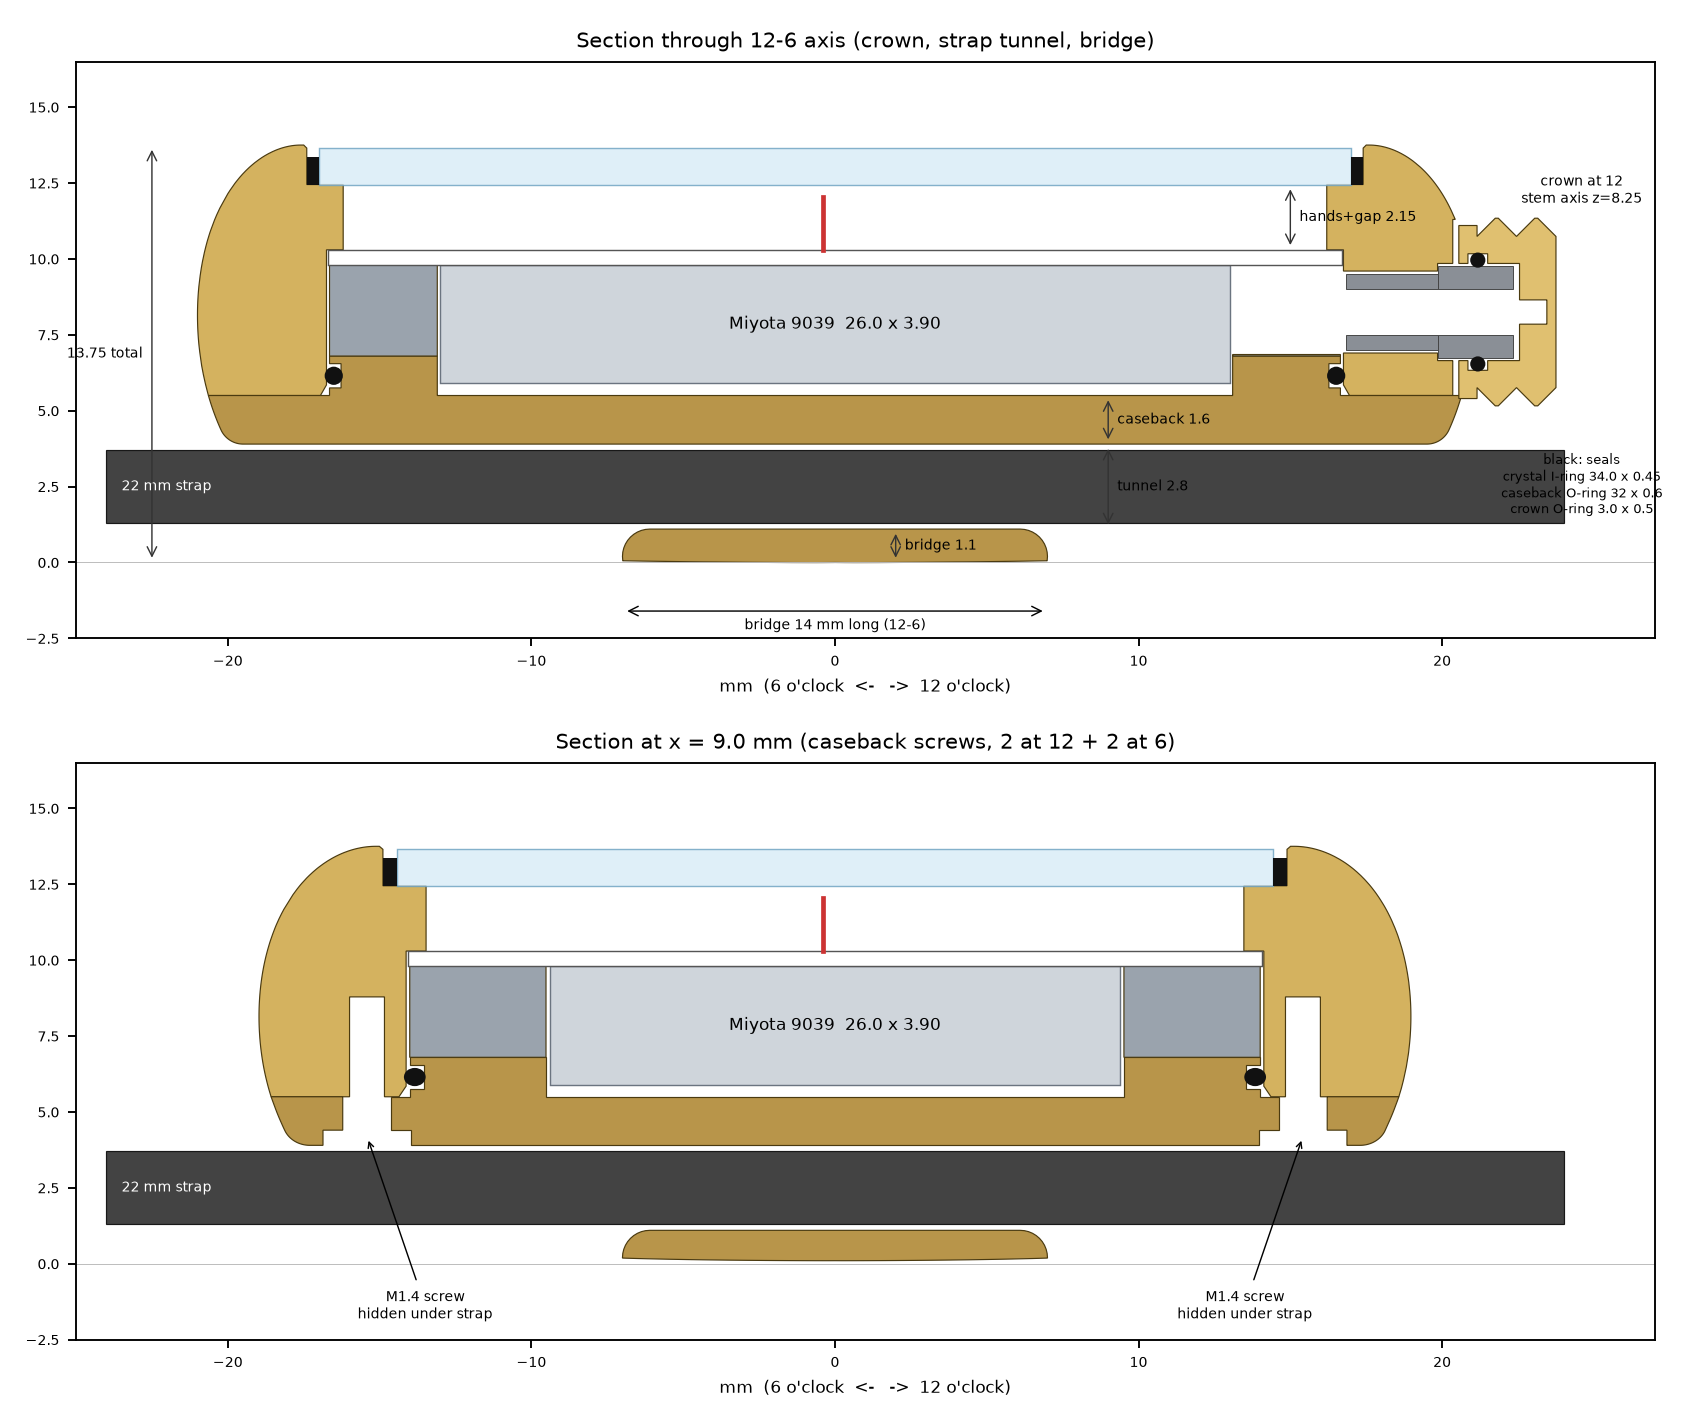
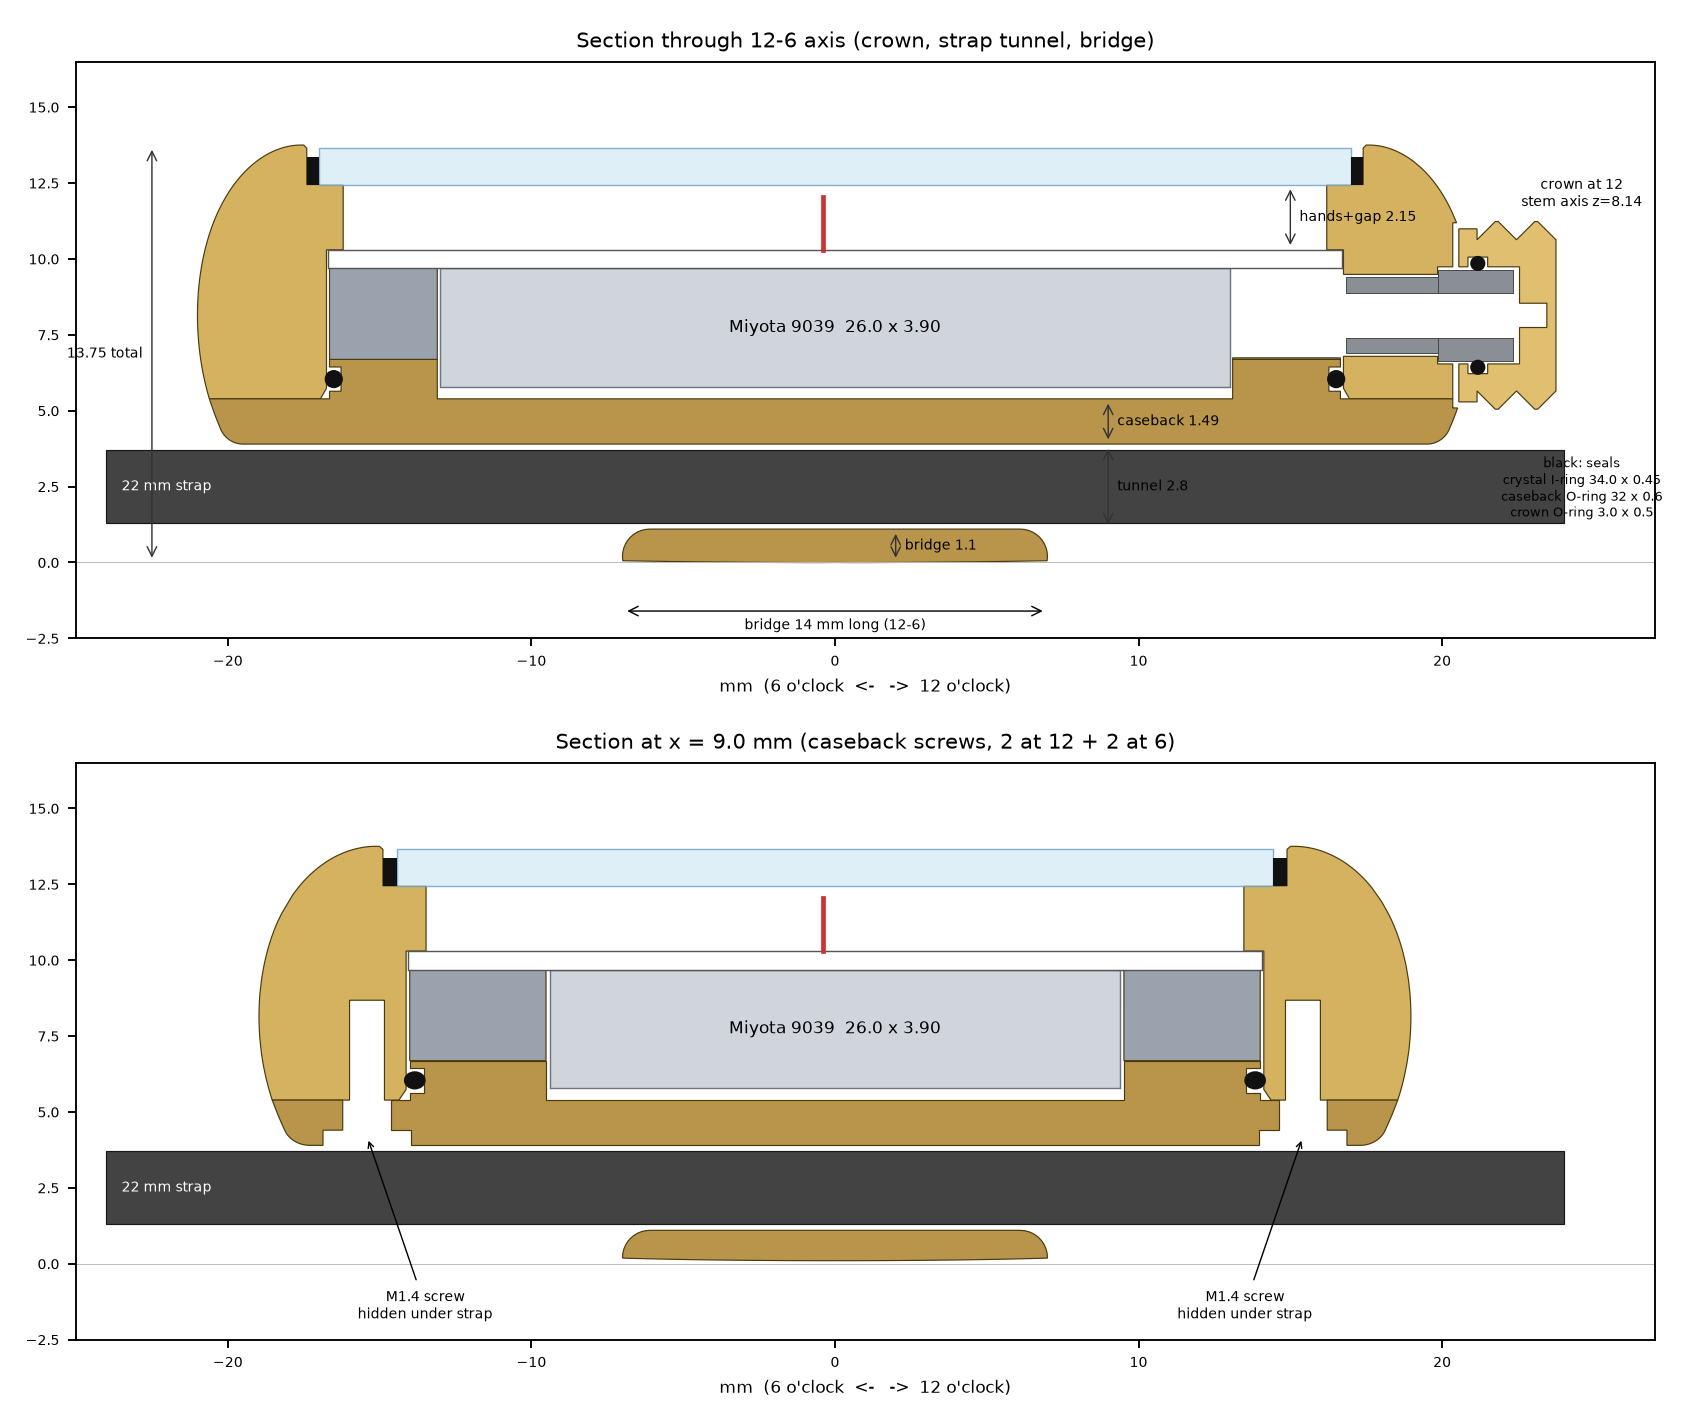
Fit V9 to the 0.61 mm steel dial without making the case taller
The dial is now the 0.024" (0.61 mm) UV-printed stainless dial instead of 0.50 mm brass.
To keep the watch at 13.75 mm and keep Miyota's 0.40 mm rotor clearance, the caseback
plate is thinned by the same 0.11 mm (1.60 -> 1.49), so everything above it drops 0.11.

- One movement ring (3.00 mm) works with this dial; no spacer variants
- 0.99 mm of plate under each M1.4 screw head; thread engagement in the body is 3.0 mm
- Crown axis now at z 8.14
- The crown counterbore at 12 is carried through the caseback, so the crown collar
  clears it (it grazed the caseback by 0.004 mm3)
- check_fits.py now also checks the crown against the body and caseback
- A 0.50 mm dial would need a 0.10 mm shim under it

diff --git a/watch-case/README.md b/watch-case/README.md
@@ -21,9 +21,9 @@ A prototype 42 mm lugless watch case with the crown at 12, and a 22 mm strap tha
 | File | What it is |
 |---|---|
 | `…_case_body.stl` | Upper shell: bezel, I-ring crystal seat, rehaut, movement bore with an O-ring lead-in, crown-tube hole and shoulder pocket at 12, 4 pilot holes for M1.4 screws |
-| `…_caseback_bridge.stl` | Lower shell: 1.6 mm caseback plate, spigot with an O-ring groove, strap tunnel from 12 to 6, 14 mm bridge, 4 flush seats for M1.4 wafer-head screws |
+| `…_caseback_bridge.stl` | Lower shell: 1.49 mm caseback plate, spigot with an O-ring groove, strap tunnel from 12 to 6, 14 mm bridge, 4 flush seats for M1.4 wafer-head screws |
 | `…_crown.stl` | Clous de Paris crown, 2 rows × 16 pyramids, smooth collar, bore over the tube with an internal O-ring groove, blind stem hole |
-| `…_movement_ring.stl` | Spacer that centres the 26 mm movement in the 33.5 mm bore. It sits on the caseback spigot and has a slot for the stem |
+| `…_movement_ring.stl` | Spacer that centres the 26 mm movement in the 33.5 mm bore. It sits on the caseback spigot and has a slot for the stem. 3.00 mm tall |
 | `…_assembly_preview.stl` | All parts in position, for viewing only |
 
 ## Key dimensions
@@ -40,7 +40,7 @@ A prototype 42 mm lugless watch case with the crown at 12, and a 22 mm strap tha
 | Strap | **22 mm single-pass strap through a tunnel** |
 | Overall | **42.00 wide (3 to 9), 44.75 from 6 to the crown tip** |
 
-Vertical stack, measured from the wrist side upward: bridge 1.1, strap tunnel 2.8, caseback plate 1.6, rotor clearance 0.4, Miyota 9039 movement 3.9, dial 0.5, hands 1.75 plus 0.4 clearance, crystal 1.2, and a 0.1 mm crest above the crystal.
+Vertical stack, measured from the wrist side upward: bridge 1.1, strap tunnel 2.8, caseback plate 1.49, rotor clearance 0.4, Miyota 9039 movement 3.9, dial 0.61, hands 1.75 plus 0.4 clearance, crystal 1.2, and a 0.1 mm crest above the crystal.
 
 The outer profile is one curvature-continuous curve (`profile.py`), so polished reflections flow without kinks.
 
@@ -58,9 +58,9 @@ The goal is about 3 ATM (rain, hand-washing and splashes; no swimming), with the
 
 - **Movement**: Miyota 9039 (no date, 3 hands, 26.0 × 3.90 mm). Mount it rotated 90° so the stem exits at 12, and print the dial with 12 at the crown.
 - **Crystal**: flat, Ø34.0 × 1.2 mm (mineral for the prototype, sapphire later).
-- **Dial**: Ø33.4 × 0.5 mm, with Ø32.4 visible. It's clamped between the rehaut and the movement ring.
+- **Dial**: Ø33.4 × 0.61 mm (0.024" UV-printed stainless steel, laser-cut with a 2.0 mm centre hole), with Ø32.4 visible. It's clamped between the rehaut and the movement ring. It has no dial feet, so fix it to the movement with dial dots (thin adhesive pads). The caseback plate was thinned from 1.60 to 1.49 mm for this dial, so the case stays 13.75 mm. A 0.50 mm dial would need a 0.10 mm shim under it.
 - **Crown tube**: **80.135.42**: 2.5 mm case end, 3.0 mm crown end that's 2.5 mm long, 5.5 mm overall (Esslinger/Ofrei 80.135 series). The tube's shoulder sits in a 0.5 mm pocket, so 2.0 mm of the crown end stands proud and no filing is needed. The print hole is 2.7 mm, so glue the tube in.
-- **Caseback screws**: 4 × **M1.4 × 4 mm** stainless, flat round (wafer) head, Ø2.5 × 0.5 mm, flat underneath, 0.3 mm pitch. The head sits flush in a Ø2.9 × 0.5 mm seat. There are two at 12 and two at 6, in the strap channel just past the bridge. Each screw grips 2.9 mm into the case.
+- **Caseback screws**: 4 × **M1.4 × 4 mm** stainless, flat round (wafer) head, Ø2.5 × 0.5 mm, flat underneath, 0.3 mm pitch. The head sits flush in a Ø2.9 × 0.5 mm seat. There are two at 12 and two at 6, in the strap channel just past the bridge. Each screw grips 3.0 mm into the case.
 - **Crystal gasket**: Esslinger individual Hytrel "I" gasket, 34.0 mm (series 84.045, about $6).
 - **Caseback O-ring**: 32.0 × 0.6 mm, Esslinger .60 mm thickness O-ring gaskets (84.314.60), size 32 mm, pack of 3.
 - **Crown O-ring**: 3.0 × 0.5 mm (OD 4.0), nitrile 70: Polymax (UK) part 3X0.5N70. It's only needed for final assembly, not for the print.
@@ -82,7 +82,7 @@ The goal is about 3 ATM (rain, hand-washing and splashes; no swimming), with the
   | Movement ring | 0.1 per side | 0.05 per side |
 
   The crystal seat (34.80), the O-ring grooves and the screw seats are the same for print and CNC.
-- **Thinnest walls on the print** (from `check_fits.py`): 0.38 mm at the mouth of each pilot hole, where the bore lead-in passes; 0.53 mm higher up; 0.48 mm at the screw-head seat edge; and 0.57 mm between the crown's O-ring groove and its pyramids.
+- **Thinnest walls on the print** (from `check_fits.py`): 0.38 mm at the mouth of each pilot hole, where the bore lead-in passes; 0.53 mm higher up; 0.48 mm at the screw-head seat edge; 0.57 mm between the crown's O-ring groove and its pyramids; and 0.99 mm of plate under each screw head. Each screw grips 3.0 mm into the body.
 - A printed crown won't hold the stem's thread for long. For test fits, glue the stem in once it's cut to length.
 
 ## Before CNC
